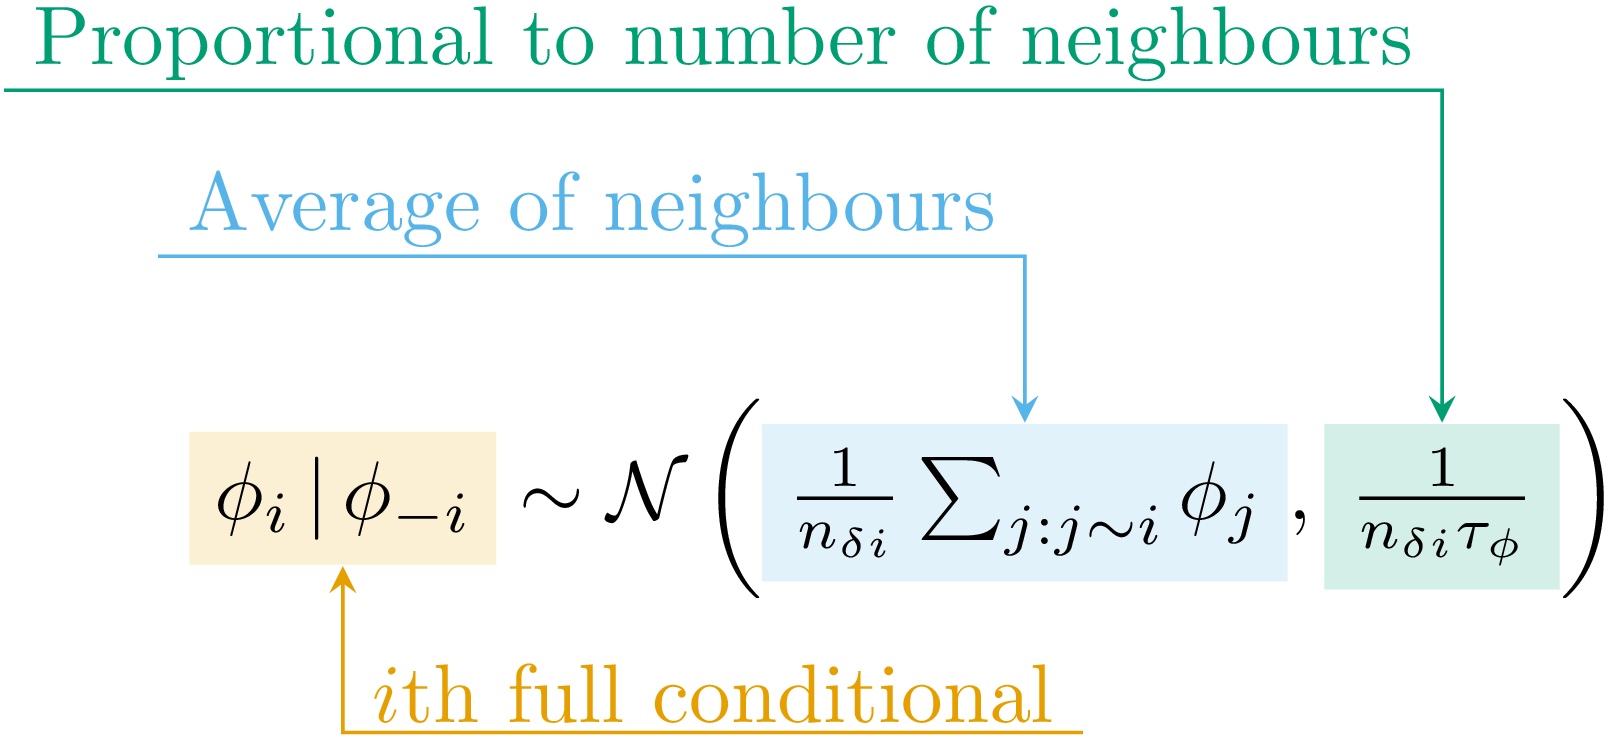
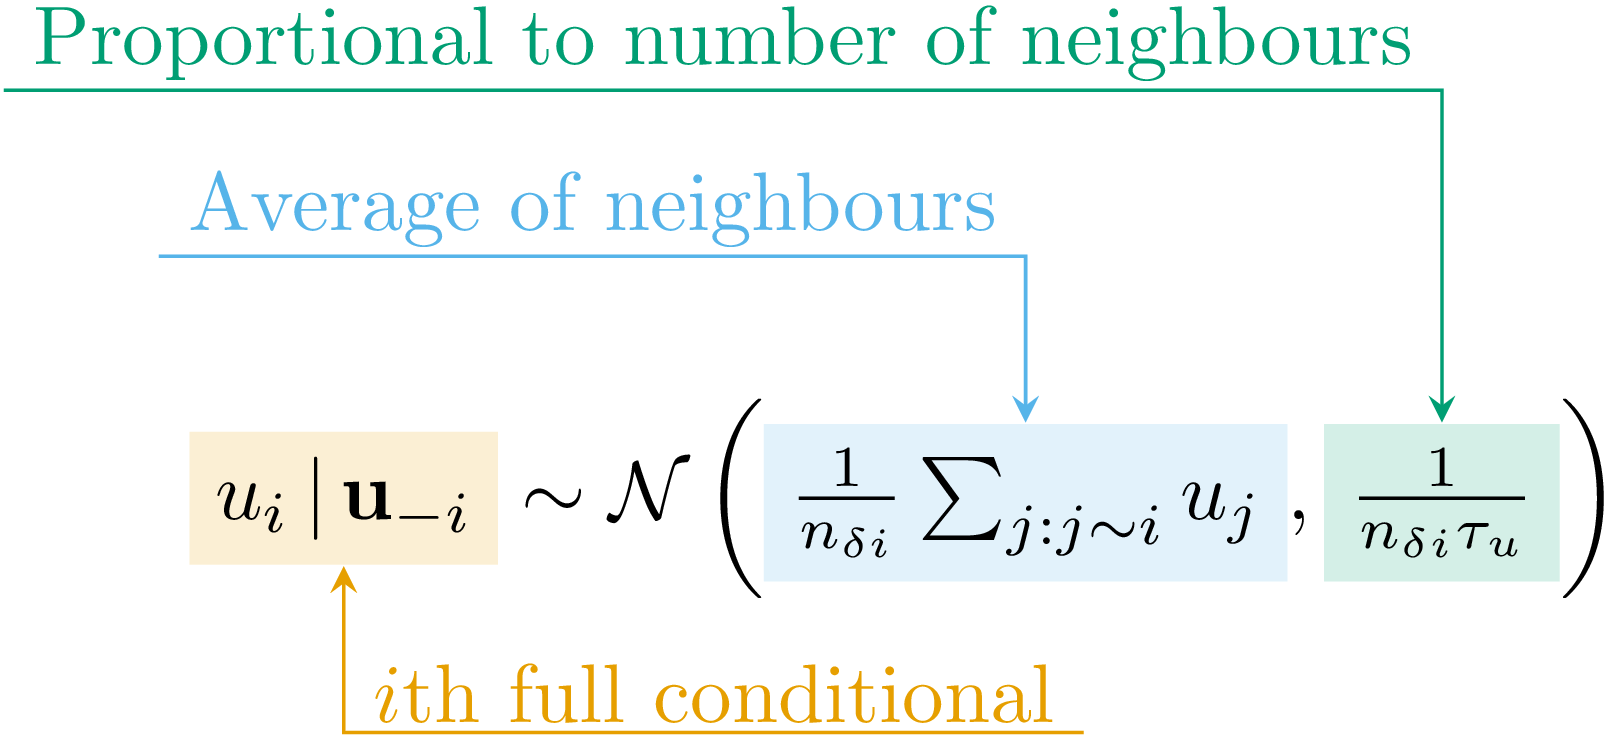
u not phi

diff --git a/src/0_plot-tikz_besag/besag.tex b/src/0_plot-tikz_besag/besag.tex
@@ -60,11 +60,11 @@
 
 \begin{equation*}
   \label{eq:besag}
-  \tikzmarknode{fc}{\highlight{lightorange}{$\phi_i \, | \, \phi_{-i}$}}
+  \tikzmarknode{fc}{\highlight{lightorange}{$u_i \, | \, \mathbf{u}_{-i}$}}
   \sim \mathcal{N}
   \left(
-  \tikzmarknode{mean}{\highlight{lightblue}{$\frac{1}{n_{\delta i}} \sum_{j: j \sim i} \phi_j$}},
-  \tikzmarknode{var}{\highlight{lightgreen}{$\frac{1}{n_{\delta i}\tau_\phi}$}}
+  \tikzmarknode{mean}{\highlight{lightblue}{$\frac{1}{n_{\delta i}} \sum_{j: j \sim i} u_j$}},
+  \tikzmarknode{var}{\highlight{lightgreen}{$\frac{1}{n_{\delta i}\tau_u}$}}
   \right)
 \end{equation*}
 
